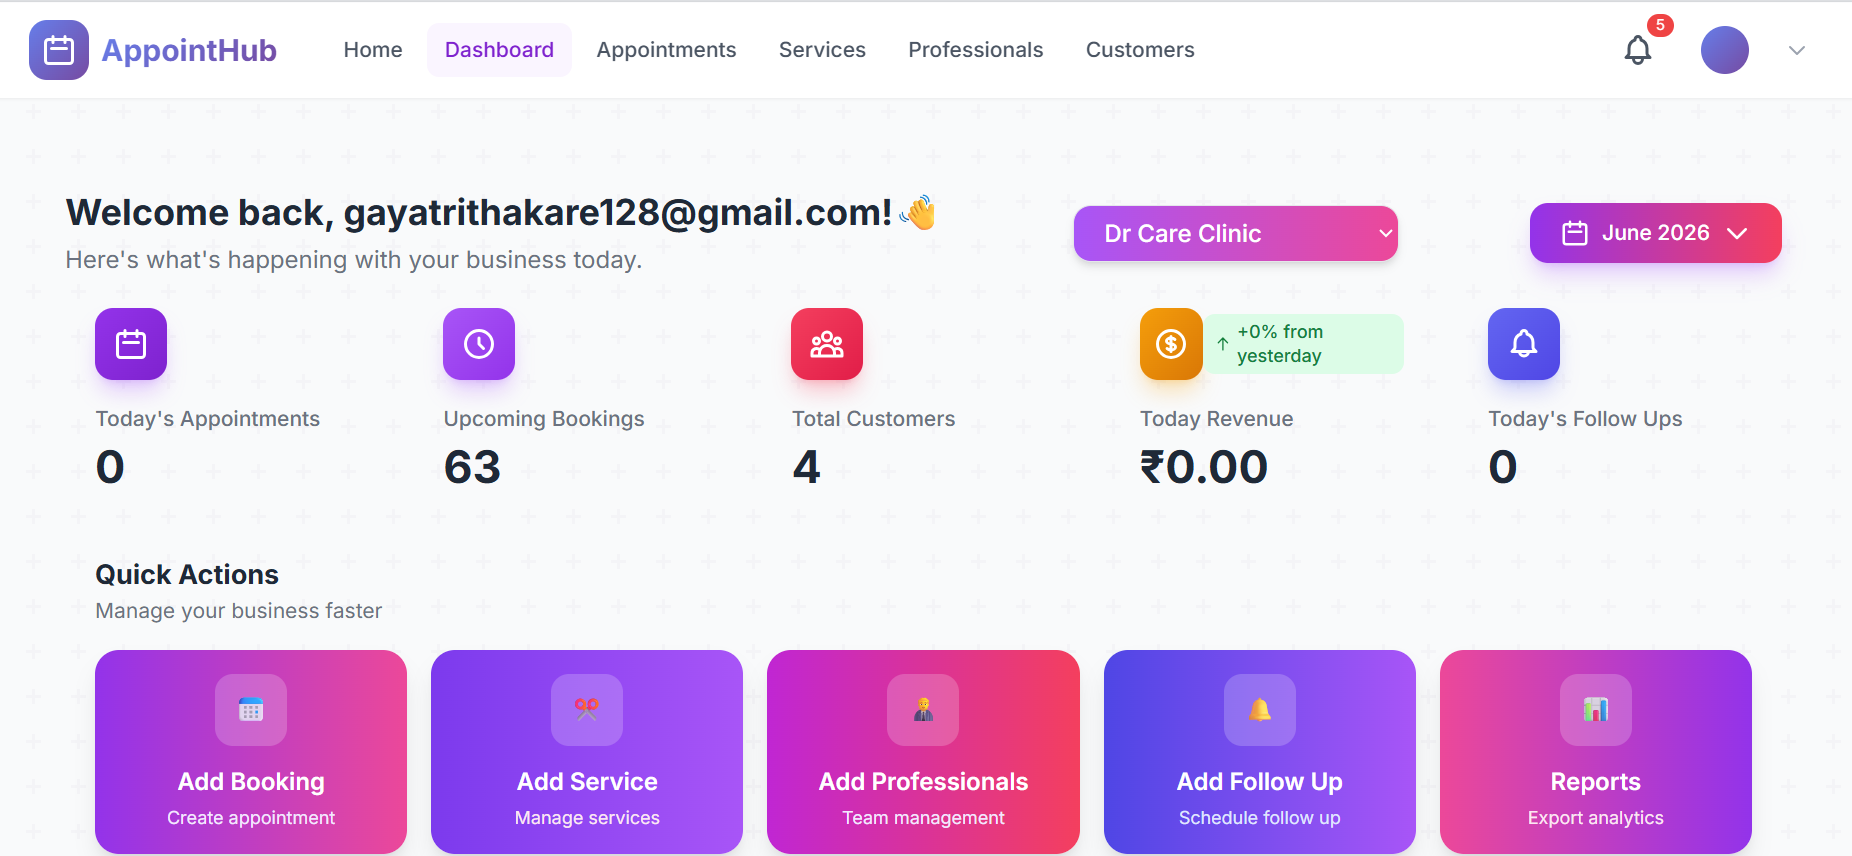
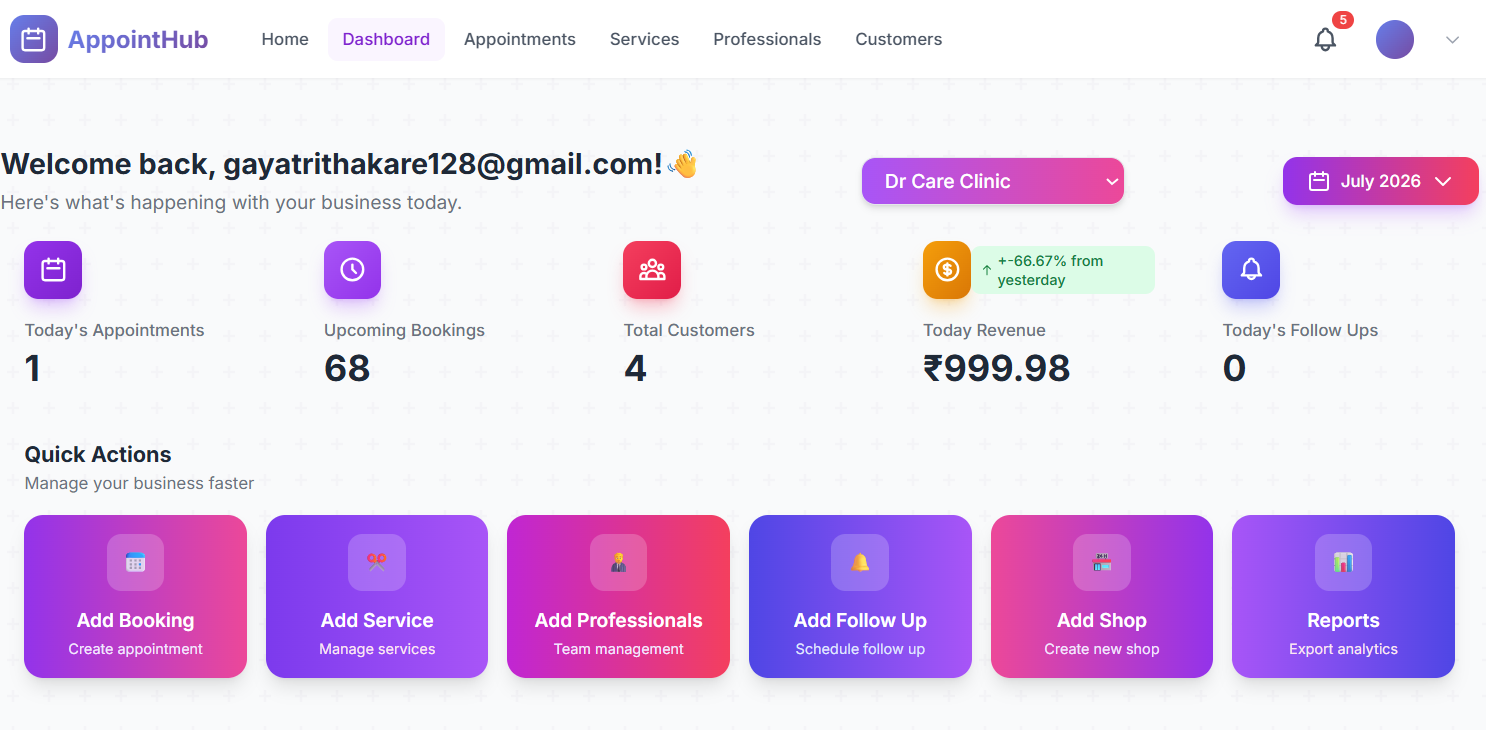
Fix dashboard bugs and improve shop management UI

diff --git a/templates/shops/add_shop.html b/templates/shops/add_shop.html
@@ -1,0 +1,146 @@
+{% extends "base.html" %}
+
+{% block content %}
+
+<div class="max-w-4xl mx-auto mt-8 bg-white rounded-2xl shadow p-8">
+
+    <h2 class="text-3xl font-bold mb-2">
+        Add New Shop
+    </h2>
+
+    <p class="text-gray-500 mb-6">
+        Create another shop for your business.
+    </p>
+
+<form method="POST" enctype="multipart/form-data" class="space-y-6">
+    {% csrf_token %}
+
+    <!-- Business Information -->
+    <div>
+        <h3 class="text-xl font-semibold mb-4">Business Information</h3>
+
+        <div class="space-y-4">
+            <div>
+                <label class="block text-sm font-medium mb-1">Business Name</label>
+                {{ form.name }}
+            </div>
+
+            <div>
+                <label class="block text-sm font-medium mb-1">Description</label>
+                {{ form.description }}
+            </div>
+        </div>
+    </div>
+
+    <!-- Contact -->
+    <div>
+        <h3 class="text-xl font-semibold mb-4">Contact Information</h3>
+
+        <div class="grid grid-cols-1 md:grid-cols-2 gap-4">
+
+            <div>
+                <label class="block text-sm font-medium mb-1">Email</label>
+                {{ form.email }}
+            </div>
+
+            <div>
+                <label class="block text-sm font-medium mb-1">Phone</label>
+                {{ form.phone }}
+            </div>
+
+            <div class="md:col-span-2">
+                <label class="block text-sm font-medium mb-1">Website</label>
+                {{ form.website }}
+            </div>
+
+        </div>
+    </div>
+
+    <!-- Address -->
+    <div>
+        <h3 class="text-xl font-semibold mb-4">Address</h3>
+
+        <div class="grid grid-cols-1 md:grid-cols-2 gap-4">
+
+            <div class="md:col-span-2">
+                <label class="block text-sm font-medium mb-1">Street Address</label>
+                {{ form.address }}
+            </div>
+
+            <div>
+                <label class="block text-sm font-medium mb-1">City</label>
+                {{ form.city }}
+            </div>
+
+            <div>
+                <label class="block text-sm font-medium mb-1">State</label>
+                {{ form.state }}
+            </div>
+
+            <div>
+                <label class="block text-sm font-medium mb-1">Postal Code</label>
+                {{ form.postal_code }}
+            </div>
+
+            <div>
+                <label class="block text-sm font-medium mb-1">Country</label>
+                {{ form.country }}
+            </div>
+
+        </div>
+    </div>
+
+    <!-- Branding -->
+    <div>
+        <h3 class="text-xl font-semibold mb-4">Branding</h3>
+
+        <div class="grid grid-cols-1 md:grid-cols-2 gap-4">
+
+            <div>
+                <label class="block text-sm font-medium mb-1">Logo</label>
+                {{ form.logo }}
+            </div>
+
+            <div>
+                <label class="block text-sm font-medium mb-1">Cover Image</label>
+                {{ form.cover_image }}
+            </div>
+
+        </div>
+    </div>
+
+    <!-- Settings -->
+    <div>
+        <h3 class="text-xl font-semibold mb-4">Booking Settings</h3>
+
+        <div class="grid grid-cols-1 md:grid-cols-3 gap-4">
+
+            <div>
+                <label class="block text-sm font-medium mb-1">Lead Time</label>
+                {{ form.booking_lead_time }}
+            </div>
+
+            <div>
+                <label class="block text-sm font-medium mb-1">Advance Days</label>
+                {{ form.max_advance_booking_days }}
+            </div>
+
+            <div>
+                <label class="block text-sm font-medium mb-1">Buffer Time</label>
+                {{ form.buffer_time }}
+            </div>
+
+        </div>
+    </div>
+
+    <button
+        type="submit"
+        class="w-full bg-purple-600 hover:bg-purple-700 text-white py-3 rounded-xl font-semibold">
+        Create Shop
+    </button>
+
+</form>
+
+</div>
+
+{% endblock %}

diff --git a/templates/dashboard/index.html b/templates/dashboard/index.html
@@ -349,7 +349,7 @@
     </div>
   </div>
 
-  <div class="grid grid-cols-2 md:grid-cols-5 gap-4">
+  <div class="grid grid-cols-2 md:grid-cols-6 gap-4">
 
     <!-- New Booking -->
     <a href="/shops/"
@@ -429,9 +429,31 @@
   </div>
 </a>
 
+
+<!-- Add Shop -->
+<a href="{% url 'shops:add_shop' %}"
+   class="group p-4 rounded-2xl bg-gradient-to-r from-pink-500 to-purple-600 text-white shadow-lg hover:shadow-rose-400/40 hover:scale-105 transition-all duration-300">
+
+  <div class="flex flex-col items-center text-center">
+
+    <div class="w-12 h-12 rounded-xl bg-white/20 flex items-center justify-center mb-3 group-hover:rotate-6 transition">
+      🏪
+    </div>
+
+    <p class="font-semibold">
+      Add Shop
+    </p>
+
+    <span class="text-xs text-purple-100 mt-1">
+      Create new shop
+    </span>
+
+  </div>
+</a>
+
     <!-- Reports -->
     <a href="/dashboard/reports/"
-       class="group p-4 rounded-2xl bg-gradient-to-r from-pink-500 to-purple-600 text-white shadow-lg hover:shadow-rose-400/40 hover:scale-105 transition-all duration-300">
+       class="group p-4 rounded-2xl bg-gradient-to-r from-purple-500 to-indigo-600 text-white shadow-lg hover:shadow-purple-400/40 hover:scale-105 transition-all duration-300">
 
       <div class="flex flex-col items-center text-center">
         <div class="w-12 h-12 rounded-xl bg-white/20 flex items-center justify-center mb-3 group-hover:rotate-6 transition">
@@ -450,6 +472,7 @@
 
   </div>
 </div>
+
 
 
 

diff --git a/apps/dashboard/views.py b/apps/dashboard/views.py
@@ -298,16 +298,16 @@ def index_view(request):
          revenue = Booking.objects.filter(
             staff=staff,
             payment_status='paid'
-        ).aggregate(
+         ).aggregate(
           total=Sum('price')
-        )['total'] or 0
+         )['total'] or 0
 
-        bookings_count = Booking.objects.filter(
-          staff=staff
-        ).count()
+         bookings_count = Booking.objects.filter(
+           staff=staff
+         ).count()
 
-        print(
-         "STAFF:",
+         print(
+          "STAFF:",
           staff.user.get_full_name(),
           "BOOKINGS:",
            bookings_count,
@@ -315,46 +315,44 @@ def index_view(request):
            revenue,
           "COMMISSION:",
            getattr(staff, "commission_percentage", 0)
-        )
+         )
 
 
 
-        all_bookings = Booking.objects.filter(
+         all_bookings = Booking.objects.filter(
           staff=staff
-       )
+         )
 
-        for b in all_bookings:
-         print(
+         for b in all_bookings:
+          print(
           "BOOKING ID:", b.id,
          "STATUS:", b.status,
          "PAYMENT:", b.payment_status,
           "PRICE:", b.price
-        )
-
-    # Example: 10% commission
-        #  commission = getattr(staff, 'commission_percentage', 10)
-
-        # salary = (revenue * commission) / 100
+         )
        
-        commission = getattr(staff, 'commission_percentage', 10)
+         commission = getattr(staff, 'commission_percentage', 10)
 
-        revenue = Decimal(str(revenue))
-        commission = Decimal(str(commission))
+         revenue = Decimal(str(revenue))
+         commission = Decimal(str(commission))
 
-        salary = (revenue * commission) / Decimal('100')
-        salary = salary.quantize(Decimal('0.01'), rounding=ROUND_HALF_UP)
+         salary = (revenue * commission) / Decimal('100')
+         salary = salary.quantize(Decimal('0.01'), rounding=ROUND_HALF_UP)
 
-        staff_report.append({
+         staff_report.append({
           'staff': staff,
            'bookings': bookings_count,
            'revenue': revenue,
            'salary': salary,
            'commission': commission,
-        })
+         })
 
 
     else:
         today_appointments = 0
+        yesterday_appointments = 0
+        today_change = 0
+
         total_bookings = 0
         total_revenue = 0
         today_revenue = 0

diff --git a/apps/shops/views.py b/apps/shops/views.py
@@ -312,3 +312,33 @@ def my_shop_redirect_view(request):
         return redirect('shops:dashboard', slug=shop.slug)
 
     return redirect('shops:shop_setup')
+
+@login_required
+def add_shop_view(request):
+
+    if request.method == "POST":
+        form = ShopForm(request.POST, request.FILES, user=request.user)
+
+        if form.is_valid():
+
+            shop = form.save()
+
+            for day in range(7):
+                BusinessHours.objects.create(
+                    shop=shop,
+                    day_of_week=day,
+                    open_time="09:00",
+                    close_time="17:00",
+                    is_closed=False,
+                )
+
+            messages.success(request, "Shop created successfully!")
+
+            return redirect("shops:dashboard", slug=shop.slug)
+
+    else:
+        form = ShopForm(user=request.user)
+
+    return render(request, "shops/add_shop.html", {
+        "form": form
+    })

diff --git a/apps/shops/urls.py b/apps/shops/urls.py
@@ -14,6 +14,8 @@ urlpatterns = [
 
     path('setup/',views.shop_setup_view, name='shop_setup'),
 
+    path("add-shop/", views.add_shop_view, name="add_shop"),
+
     # 🔥 CUSTOMER SHOP LIST
     path('', views.shops_list_view, name='shops_list'),
 
@@ -28,9 +30,7 @@ urlpatterns = [
     path('<slug:slug>/closures/', views.shop_closures_view, name='closures'),
     path('<slug:slug>/closures/<int:pk>/delete/', views.shop_closure_delete_view, name='closure_delete'),
 
-    path('setup/', views.shop_setup_view, name='setup'),
-
-
+    
     path('', views.shops_list_view, name='list'),
 
 ]
